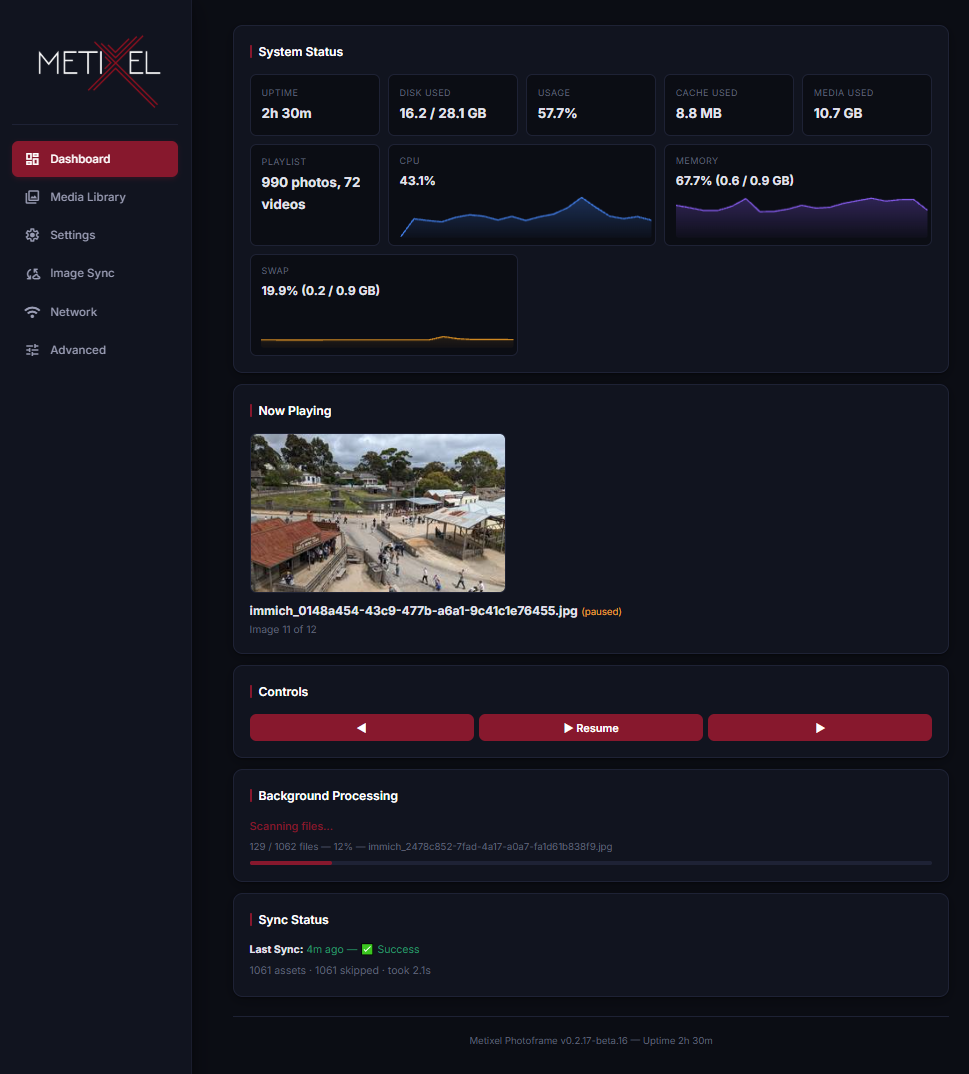
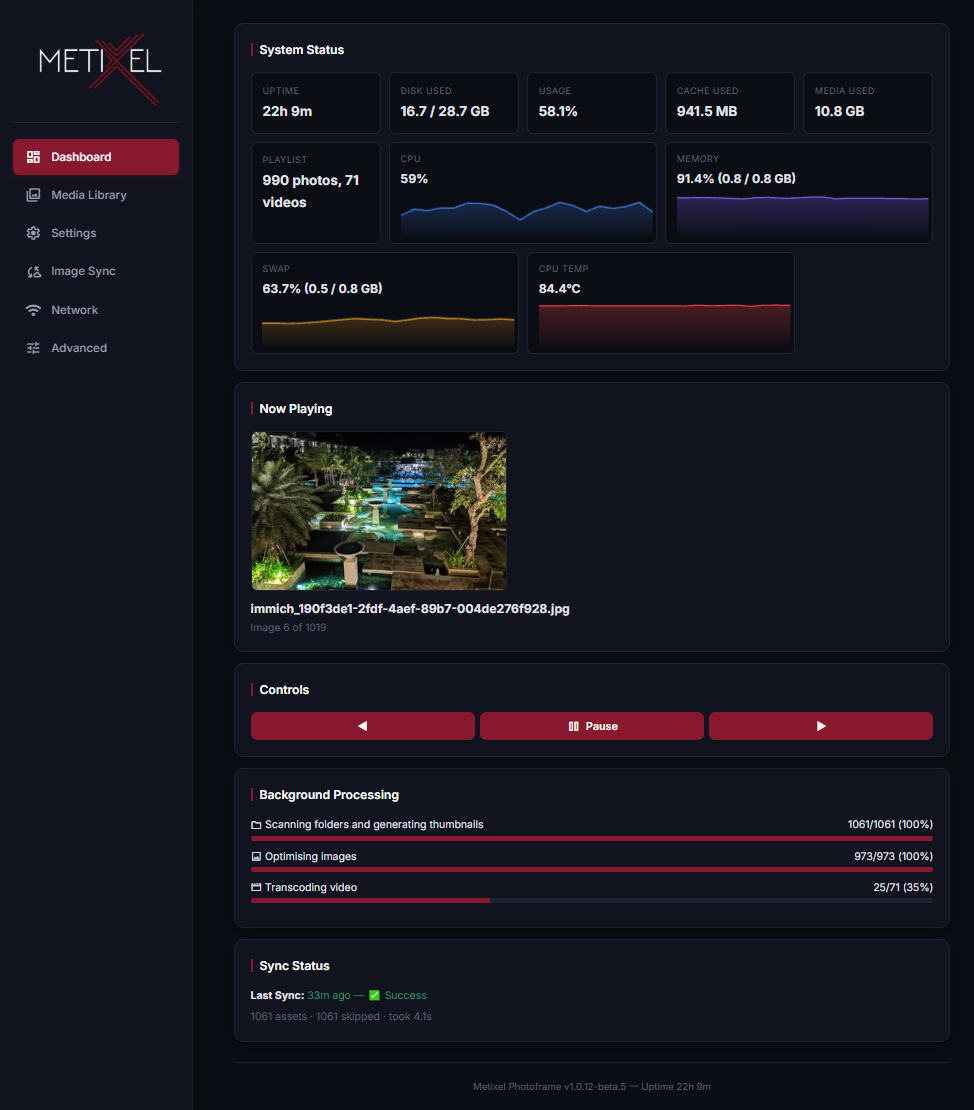
feat: Update architecture documentation and simplify GPU memory configuration for all Raspberry Pi models

diff --git a/README.md b/README.md
@@ -8,8 +8,12 @@
   <em>A custom, open-source digital photo frame OS for Raspberry Pi.<br>Beautiful slideshows. Immich integration. Web UI. Zero-cloud. Just pictures and videos.</em>
 </p>
 
-<p align="center">
+<!-- <p align="center">
   <img src="docs/images/digital_frame_wall.PNG" alt="Metixel digital photo frame on a wall" width="70%">
+</p> -->
+
+<p align="center">
+  <img src="docs\images\metixel_youtube_400px_5fps.gif" alt="Metixel Photoframe in action"  width="70%">
 </p>
 
 <p align="center">
@@ -27,6 +31,13 @@ Metixel Photoframe turns a Raspberry Pi into a polished, hardware-accelerated di
 - 📷 **Native Immich v3 sync** — auto-pull albums and assets
 - 🎬 **Video playback** via VLC
 - 🔒 **Runs locally** — no cloud dependency, your photos stay on your network
+
+---
+
+## Building Your Own Digital Photoframe
+
+I recommend repurposing a TV or old monitor to build your digital picture frame. In my case, I used an old monitor, had a professional framer create a frame and matte and mounted the monitor behind along with the Raspberry Pi. Instructions for building your own digital picture frame are available [here](https://www.thedigitalpictureframe.com/how-i-built-a-stunning-32-inch-4k-digital-picture-frame-with-a-raspberry-pi-4-featuring-smooth-image-crossfading-transitions/), [here](https://medium.com/women-make/diy-digital-photo-frame-in-less-than-20-minutes-69bc35ed6364), and [here](https://www.noahrousell.com/blog/making-a-digital-pho/).
+
 
 ---
 

diff --git a/CHANGELOG.md b/CHANGELOG.md
@@ -5,7 +5,7 @@ All notable changes to Metixel Photoframe will be documented in this file.
 The format is based on [Keep a Changelog](https://keepachangelog.com/en/1.1.0/),
 and this project adheres to [Semantic Versioning](https://semver.org/).
 
-## [1.0.13-beta.6]
+## [1.1.0]
 
 ### Added
 
@@ -76,6 +76,19 @@ and this project adheres to [Semantic Versioning](https://semver.org/).
   memory to Pi 3 (which uses a static partition), leaving only 8 MB for
   textures after the framebuffer.  Videos rendered as black because the
   GPU couldn't allocate texture memory.
+- **Keyboard defaults** — KEY_UP / KEY_DOWN removed (redundant), KEY_RIGHT
+  corrected from ``prev`` → ``next``, KEY_SPACE and KEY_POWER removed.
+  Defaults now: KEY_LEFT → prev, KEY_RIGHT → next, KEY_ENTER → toggle.
+
+### Changed (2026-08-10)
+
+- **``gpu_mem=128`` for all Pi models** — setup script simplified: Pi 4/5
+  ignore ``gpu_mem`` via CMA dynamic allocation, so a single value avoids
+  model‑detection complexity and keeps the base image portable across all
+  Pi generations.
+- **``requirements-system.txt`` now complete** — lists all 24 apt packages
+  from the setup script (grouped by purpose) so the OTA updater can
+  install any missing system dependencies after an update.
 
 ### Added
 

diff --git a/ARCHITECTURE.md b/ARCHITECTURE.md
@@ -560,9 +560,10 @@ Key invariants
 
 GPU memory on Pi 2/3
     Pi 2/3 use a STATIC GPU memory partition (``gpu_mem`` in config.txt).
-    Set ``gpu_mem=128`` for these models — the framebuffer alone needs
-    ~8 MB at 1080p, and pi3d textures consume ~4 MB each (RGB565).
-    Pi 4/5 use CMA dynamic allocation — ``gpu_mem=16`` is sufficient.
+    Set ``gpu_mem=128`` for all Pi models — Pi 2/3 need the static
+    partition for the framebuffer (~8 MB at 1080p) plus pi3d textures
+    (~4 MB each RGB565).  Pi 4/5 use CMA dynamic allocation and ignore
+    ``gpu_mem`` entirely, so a single value keeps the base image portable.
 ```
 
 **RAM budget for Phase 1 (512MB Pi Zero 2 W — untested):**
